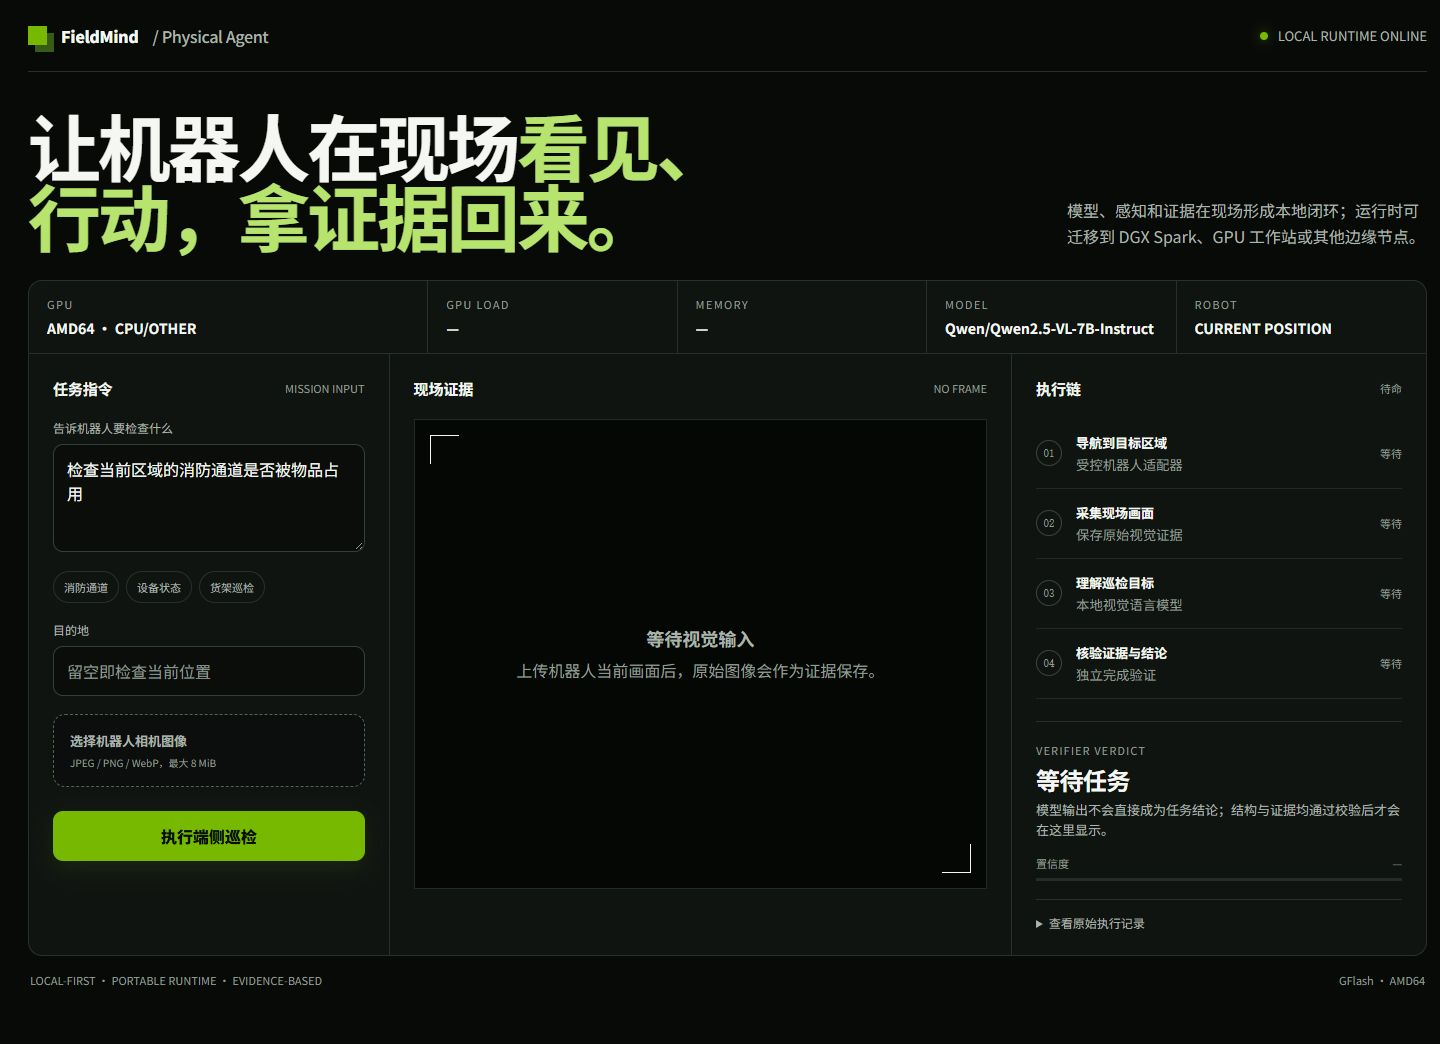
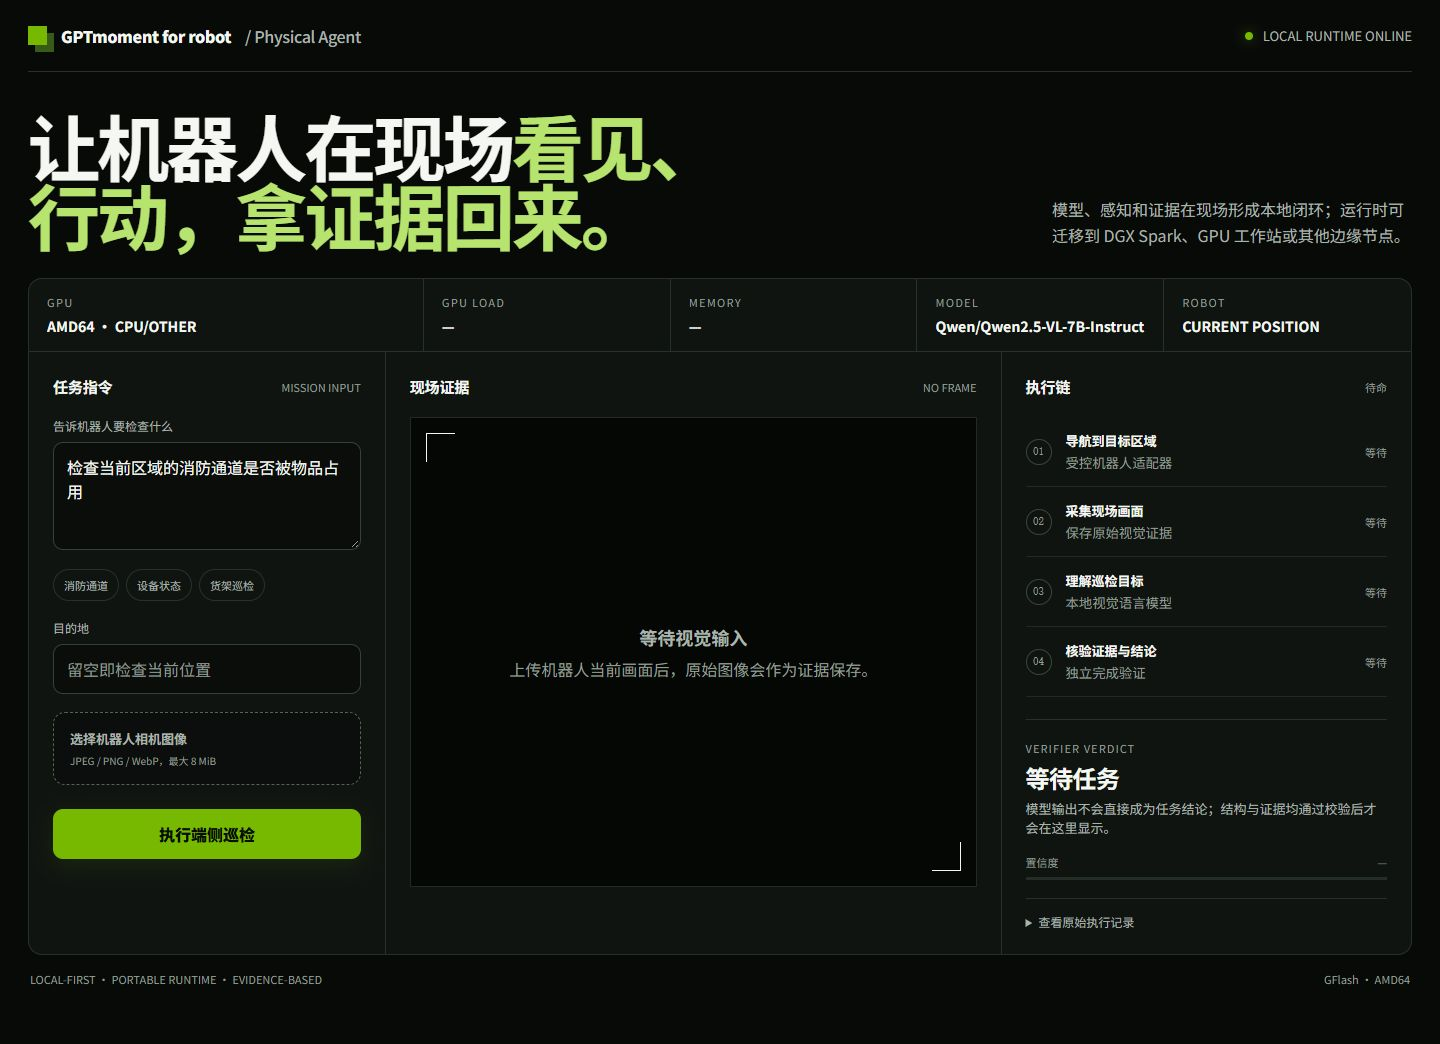
更正一些错误

diff --git a/ui/src/App.tsx b/ui/src/App.tsx
@@ -31,5 +31,5 @@ function Models({initialId}:{initialId?:string}){
 export default function App(){
  const [view,setView]=useState('overview');const [selection,setSelection]=useState<TaskSelection>();const [taskId,setTaskId]=useState<string>();const [assetId,setAssetId]=useState<string>();const [modelId,setModelId]=useState<string>();const [compact,setCompact]=useState(false);const overview=useQuery<Json>('/overview');
  const onTask=(id:string)=>{setTaskId(id);setView('tasks')};const onAsset=(id:string)=>{setAssetId(id);setView('memory')};const onModel=(id:string)=>{setModelId(id);setView('models')};
- return <div className={`app-shell ${compact?'nav-compact':''}`}><aside className="sidebar"><a className="brand" href="#" onClick={e=>{e.preventDefault();setView('overview')}} aria-label="返回运行总览"><span className="brand-icon"><ScanEye size={24}/></span><span>robot<span className="brand-light"> / agent</span><small>FLOW OBSERVER</small></span></a><div className="workspace-chip"><span className="workspace-avatar">R</span><div><strong>机器人 Agent 框架</strong><small>本地运行账本</small></div><LockKeyhole size={13}/></div><span className="nav-label">工作空间</span><nav>{navigation.map(n=><button key={n.id} className={view===n.id?'active':''} onClick={()=>setView(n.id)} title={n.label}><n.icon size={19}/><span>{n.label}</span>{view===n.id&&<i/>}</button>)}</nav><div className="sidebar-footer"><div><span className={`connection-dot ${overview.data&&!overview.error?'online':''}`}/><span>{overview.error?'查询服务不可用':overview.loading?'连接观察服务中':'账本查询已连接'}</span></div><p>{view==='workbench'?'操作请求经应用服务提交':'只读观察 · 不接管执行'}</p><button onClick={()=>setCompact(v=>!v)} aria-label="折叠侧栏"><PanelLeftClose size={16}/><span>收起侧栏</span></button></div></aside><div className="main-shell"><header className="topbar"><div className="breadcrumb">工作空间 <span>/</span> <strong>{navigation.find(n=>n.id===view)?.label}</strong></div><div className="topbar-meta"><span className="read-only"><LockKeyhole size={12}/>{view==='workbench'?'应用操作 · 独立凭据':'账本只读'}</span><span className={`connection-label ${overview.error?'disconnected':''}`}><i/>{overview.error?'数据可能过期':overview.data?'API 已连接':'API 连接中'}</span><span className="avatar"><Server size={17}/></span></div></header><main><Notice error={overview.error}/><div className="observation-time"><span><Radio size={12}/>实际账本 · {overview.error?'上次成功观测':'观测时间'}</span><time>{overview.observed?stamp(overview.observed):'尚未成功读取'}</time></div><div hidden={view!=='workbench'}><Workbench selection={selection}/></div>{view==='overview'&&<Overview data={overview.data} onTask={onTask} onView={setView}/>} {view==='tasks'&&<TaskView initialId={taskId} onAsset={onAsset} onModel={onModel} onDiscuss={value=>{setSelection(value);setView('workbench')}}/>} {view==='resources'&&<Resources onTask={onTask}/>} {view==='memory'&&<MemoryView key={assetId||'memory'} assetId={assetId}/>} {view==='models'&&<Models key={modelId||'models'} initialId={modelId}/>}</main><footer className="main-footer"><span><GitBranch size={13}/>Robot Agent Framework</span><span>真实记录 · 可追溯执行 · 明确未知</span><span>Observer API v1</span></footer></div></div>
+ return <div className={`app-shell ${compact?'nav-compact':''}`}><aside className="sidebar"><a className="brand" href="#" onClick={e=>{e.preventDefault();setView('overview')}} aria-label="返回运行总览"><span className="brand-icon"><ScanEye size={24}/></span><span>GPTmoment<span className="brand-light" style={{display:"block",fontSize:12,letterSpacing:0}}>for robot</span><small>FLOW OBSERVER</small></span></a><div className="workspace-chip"><span className="workspace-avatar">R</span><div><strong>GPTmoment for robot</strong><small>本地运行账本</small></div><LockKeyhole size={13}/></div><span className="nav-label">工作空间</span><nav>{navigation.map(n=><button key={n.id} className={view===n.id?'active':''} onClick={()=>setView(n.id)} title={n.label}><n.icon size={19}/><span>{n.label}</span>{view===n.id&&<i/>}</button>)}</nav><div className="sidebar-footer"><div><span className={`connection-dot ${overview.data&&!overview.error?'online':''}`}/><span>{overview.error?'查询服务不可用':overview.loading?'连接观察服务中':'账本查询已连接'}</span></div><p>{view==='workbench'?'操作请求经应用服务提交':'只读观察 · 不接管执行'}</p><button onClick={()=>setCompact(v=>!v)} aria-label="折叠侧栏"><PanelLeftClose size={16}/><span>收起侧栏</span></button></div></aside><div className="main-shell"><header className="topbar"><div className="breadcrumb">工作空间 <span>/</span> <strong>{navigation.find(n=>n.id===view)?.label}</strong></div><div className="topbar-meta"><span className="read-only"><LockKeyhole size={12}/>{view==='workbench'?'应用操作 · 独立凭据':'账本只读'}</span><span className={`connection-label ${overview.error?'disconnected':''}`}><i/>{overview.error?'数据可能过期':overview.data?'API 已连接':'API 连接中'}</span><span className="avatar"><Server size={17}/></span></div></header><main><Notice error={overview.error}/><div className="observation-time"><span><Radio size={12}/>实际账本 · {overview.error?'上次成功观测':'观测时间'}</span><time>{overview.observed?stamp(overview.observed):'尚未成功读取'}</time></div><div hidden={view!=='workbench'}><Workbench selection={selection}/></div>{view==='overview'&&<Overview data={overview.data} onTask={onTask} onView={setView}/>} {view==='tasks'&&<TaskView initialId={taskId} onAsset={onAsset} onModel={onModel} onDiscuss={value=>{setSelection(value);setView('workbench')}}/>} {view==='resources'&&<Resources onTask={onTask}/>} {view==='memory'&&<MemoryView key={assetId||'memory'} assetId={assetId}/>} {view==='models'&&<Models key={modelId||'models'} initialId={modelId}/>}</main><footer className="main-footer"><span><GitBranch size={13}/>GPTmoment for robot</span><span>真实记录 · 可追溯执行 · 明确未知</span><span>Observer API v1</span></footer></div></div>
 }

diff --git a/ui/index.html b/ui/index.html
@@ -1,1 +1,1 @@
-<!doctype html><html lang="zh-CN"><head><meta charset="UTF-8"/><meta name="viewport" content="width=device-width, initial-scale=1.0"/><meta name="theme-color" content="#111820"/><title>Robot Agent · 流程观察台</title></head><body><div id="root"></div><script type="module" src="/src/main.tsx"></script></body></html>
+<!doctype html><html lang="zh-CN"><head><meta charset="UTF-8"/><meta name="viewport" content="width=device-width, initial-scale=1.0"/><meta name="theme-color" content="#111820"/><title>GPTmoment for robot · 流程观察台</title></head><body><div id="root"></div><script type="module" src="/src/main.tsx"></script></body></html>

diff --git a/.history/hackathon_mvp_20260929224837.py b/.history/hackathon_mvp_20260929224837.py
@@ -81,7 +81,7 @@ class InspectionAgent:
             "MODEL_ENDPOINT", "http://127.0.0.1:8000/v1/chat/completions"
         )
         self.model_name = os.getenv(
-            "MODEL_NAME", "Qwen/Qwen3.8-27B"
+            "MODEL_NAME", "Qwen/Qwen2.5-VL-7B-Instruct"
         )
         self.model_api_key = os.getenv("MODEL_API_KEY", "")
         self.robot_skill_url = os.getenv("ROBOT_SKILL_URL", "")

diff --git a/fieldmind.py b/fieldmind.py
@@ -1,6 +1,6 @@
-"""FieldMind portable physical-agent entry point."""
+"""Compatibility entry point for GPTmoment for robot."""
 
-from hackathon_mvp import main
+from gptmoment import main
 
 
 if __name__ == "__main__":

diff --git a/gptmoment.py b/gptmoment.py
@@ -1,0 +1,7 @@
+"""GPTmoment for robot portable physical-agent entry point."""
+
+from hackathon_mvp import main
+
+
+if __name__ == "__main__":
+    main()

diff --git a/.impeccable/surfaces/hackathon-mvp-py.md b/.impeccable/surfaces/hackathon-mvp-py.md
@@ -2,10 +2,10 @@
 version: 1
 slug: "hackathon-mvp-py"
 primary_target: "hackathon_mvp.py"
-related_targets: ["fieldmind.py", "HACKATHON.md", "README.md", ".impeccable/review/desktop.png", ".impeccable/review/mobile.png"]
+related_targets: ["gptmoment.py", "HACKATHON.md", "README.md", ".impeccable/review/desktop.png", ".impeccable/review/mobile.png"]
 ---
 
-# FieldMind hackathon inspection runtime
+# GPTmoment for robot hackathon inspection runtime
 
 Mode: Operate. Audience: hackathon judges, local robotics developers, and on-site operators. Present one real inspection loop clearly enough to demo in three minutes without collapsing weaker model evidence into a stronger robot-completion claim.
 
@@ -17,7 +17,7 @@ OWN-WORLD: The Edge Evidence Bay — a near-black, green-cast instrument chassis
 
 STORY: Confirm the edge host and runtime → state a natural-language inspection goal → optionally name a destination → upload the robot's current frame → execute the local loop → inspect each skill result → read the verifier verdict and raw record.
 
-FIRST VIEWPORT: Keep the FieldMind identity, local/remote runtime status, portable deployment promise, five telemetry cells, and the top of the mission/evidence/execution workbench visible on desktop. The center evidence track is widest. On mobile, show the promise and telemetry first, then preserve mission → evidence → execution order.
+FIRST VIEWPORT: Keep the GPTmoment for robot identity, local/remote runtime status, portable deployment promise, five telemetry cells, and the top of the mission/evidence/execution workbench visible on desktop. The center evidence track is widest. On mobile, show the promise and telemetry first, then preserve mission → evidence → execution order.
 
 FORM: One explicit mission submission. Image evidence is mandatory; destination is optional and means “inspect current position” when empty. Presets only fill the mission text. Running is never implicit, never retried automatically, and never represented as complete before the verifier returns.
 
@@ -29,7 +29,7 @@ FINISH: The desktop and mobile captures are the visual truth for this shipped su
 
 ## Implemented surface
 
-The surface is a self-contained local web runtime embedded in `hackathon_mvp.py`. Its top bar pairs the offset-square FieldMind mark with a text-labeled runtime indicator. The opening promise uses a large Chinese display line with green emphasis and a compact deployment paragraph that names DGX Spark, GPU workstations, and other edge nodes as portable targets.
+The surface is a self-contained local web runtime embedded in `hackathon_mvp.py`. Its top bar pairs the offset-square GPTmoment for robot mark with a text-labeled runtime indicator. The opening promise uses a large Chinese display line with green emphasis and a compact deployment paragraph that names DGX Spark, GPU workstations, and other edge nodes as portable targets.
 
 Five telemetry cells report accelerator identity, GPU load, memory, model, and robot state. They join directly to the three-column workbench: mission input on the left, raw on-site evidence in the dominant center, and the four-step execution chain plus verifier outcome on the right. The workbench is one bordered chassis rather than a set of floating cards.
 
@@ -37,7 +37,7 @@ The mission form contains a natural-language goal, three quick-fill inspection t
 
 Execution rows keep `robot.navigate`, `vision.observe`, `inspection.assess`, and `task.verify` legible as separate claims. Their waiting, submitted, completed, failed, and skipped states stay independently labeled. The verifier does not simply repeat the model response: only a successful verification output can populate the final verdict and confidence track. The complete response remains inspectable in a native disclosure.
 
-At widths below 1050px the result column spans a second row and the execution trace turns horizontal. Below 720px the shell becomes a single vertical flow, telemetry becomes a two-column grid, a four-part proof strip appears, the evidence viewport contracts to 330px, and the brand descriptor is hidden while FieldMind and runtime status remain visible.
+At widths below 1050px the result column spans a second row and the execution trace turns horizontal. Below 720px the shell becomes a single vertical flow, telemetry becomes a two-column grid, a four-part proof strip appears, the evidence viewport contracts to 330px, and the brand descriptor is hidden while GPTmoment for robot and runtime status remain visible.
 
 ## Completion evidence
 

diff --git a/DESIGN.md b/DESIGN.md
@@ -1,5 +1,5 @@
 ---
-name: "FieldMind"
+name: "GPTmoment for robot"
 description: "A local-first, portable, evidence-driven Physical Agent Runtime for robots."
 colors:
   phosphor-green: "#76b900"
@@ -88,13 +88,13 @@ components:
     padding: "24px"
 ---
 
-# Design System: FieldMind
+# Design System: GPTmoment for robot
 
 ## Overview
 
 **Creative North Star: "The Edge Evidence Bay"**
 
-FieldMind should feel like a disciplined workstation installed beside the robot, not a cloud dashboard wearing industrial colors. Its near-black canvas, instrument-like telemetry, and sharp evidence viewport create a calm operating bay where the user can issue one mission, inspect what the robot actually saw, and follow the chain from skill invocation to independent verification.
+GPTmoment for robot should feel like a disciplined workstation installed beside the robot, not a cloud dashboard wearing industrial colors. Its near-black canvas, instrument-like telemetry, and sharp evidence viewport create a calm operating bay where the user can issue one mission, inspect what the robot actually saw, and follow the chain from skill invocation to independent verification.
 
 The visual system communicates three durable product truths: computation can stay local, the runtime can move between edge hosts, and claims only become conclusions when evidence survives verification. DGX Spark belongs in deployment copy as a high-performance reference node; it is never treated as a required device or the identity of the product. Density is purposeful rather than decorative: large type states the promise, compact labels expose machine state, and green appears only where it carries action, availability, progress, or verified success.
 
@@ -135,7 +135,7 @@ The palette is an edge-compute night mode: green-black surfaces reduce glare, co
 
 **The Honest State Rule.** Failure uses coral, constrained or skipped states use amber, and unknown or waiting states remain neutral. Never turn every state green.
 
-**The Portable Runtime Rule.** Host and accelerator identity may be visible telemetry, but no vendor color or device name may overtake FieldMind's product identity.
+**The Portable Runtime Rule.** Host and accelerator identity may be visible telemetry, but no vendor color or device name may overtake GPTmoment for robot's product identity.
 
 ## Typography
 
@@ -174,13 +174,13 @@ Spacing follows compact operational increments from 7px to 28px. Internal workbe
 
 ## Elevation & Depth
 
-FieldMind is flat by default. Depth comes from nested green-black tones, 1px borders, and contained clipping rather than a stack of floating cards. The primary action is the lone raised control, while live status uses a small optical glow. Evidence overlays use a nearly opaque dark backing so machine metadata remains legible over imagery.
+GPTmoment for robot is flat by default. Depth comes from nested green-black tones, 1px borders, and contained clipping rather than a stack of floating cards. The primary action is the lone raised control, while live status uses a small optical glow. Evidence overlays use a nearly opaque dark backing so machine metadata remains legible over imagery.
 
 ### Shadow Vocabulary
 
 - **Action Lift** (`0 7px 22px rgba(47, 76, 11, 0.32)`): only the enabled primary execution button.
 - **Runtime Glow** (`0 0 12px rgba(118, 185, 0, 0.55)`): the live runtime dot; never apply this glow to decorative text or entire panels.
-- **Brand Offset** (`7px 7px 0 #395b18`): the square FieldMind mark's physical offset; it is a signature silhouette, not a general card shadow.
+- **Brand Offset** (`7px 7px 0 #395b18`): the square GPTmoment for robot mark's physical offset; it is a signature silhouette, not a general card shadow.
 
 ### Named Rules
 
@@ -224,7 +224,7 @@ Thin borders are structural, not ornamental. Dashed borders are reserved for fil
 
 ### Navigation
 
-The product bar is a minimal identity-and-status rail rather than global navigation: FieldMind and its Physical Agent descriptor sit left, and runtime state sits right. On mobile, hide the descriptor but retain both the brand and runtime state. The live dot never appears without adjacent text.
+The product bar is a minimal identity-and-status rail rather than global navigation: GPTmoment for robot and its Physical Agent descriptor sit left, and runtime state sits right. On mobile, hide the descriptor but retain both the brand and runtime state. The live dot never appears without adjacent text.
 
 ### Evidence Viewport
 

diff --git a/docs/PROMO_SCRIPT.md b/docs/PROMO_SCRIPT.md
@@ -1,0 +1,28 @@
+# GPTmoment for robot · 产品宣传片脚本
+
+目标时长约 2 分钟。主线：提出机器人能力组合的问题 → 介绍 Agent 与 Skill → 穿插现场视频 → 展示任务反馈 → 展开跨场景与本地部署。
+
+核心表达：**把机器人的每一种能力，编排成完成任务的行动。**
+
+## 分镜与旁白
+
+| 时间 | 画面 | 旁白 | 屏幕字幕 |
+| --- | --- | --- | --- |
+| 00:00–00:08 | 快切移动、观察、操作或交互镜头 | 机器人能够移动、看见、操作，也能够与人交流。 | 移动 · 感知 · 操作 · 交互 |
+| 00:08–00:18 | 自然语言任务出现，展开动作词 | 而真实的需求，往往需要这些能力一起完成。比如，把一件物品送到指定位置，并确认交接。 | 一个目标，需要多种能力协作。 |
+| 00:18–00:30 | 项目名称与技能模块出现 | 这就是 GPTmoment for robot 的出发点：把机器人的能力统一封装为 Skill，让 Agent 围绕目标组织行动。 | GPTmoment for robot / 机器人通用技能编排 |
+| 00:30–00:43 | 任务输入与计划节点；概念动画标注“任务编排示意” | 从一句任务描述开始，结合可用技能与现场信息，将目标组织成有依赖、有完成条件的执行流程。 | 理解目标 → 匹配技能 → 组织任务 |
+| 00:43–01:00 | 主要机器人实拍，侧边标注对应技能 | 每一项技能连接具体的机器人能力。导航负责到达，感知提供环境信息，操作改变物体状态，交互帮助人与机器人协同。 | 当前任务 / 调用技能 / 执行状态 |
+| 01:00–01:15 | 实拍与执行记录交叉剪辑 | 行动会带来新的反馈：位置是否到达，目标是否找到，动作是否完成。这些信息为下一步决策提供依据。 | 执行产生反馈，反馈推动下一步。 |
+| 01:15–01:28 | 观测画面、已有结果和记录 | 任务结果应当有清晰的完成标准，并能追溯到执行记录与现场证据。 | 目标有定义 · 过程可追踪 · 结果有依据 |
+| 01:28–01:43 | 技能模块重新组合，标注“场景组合” | 同一组技能可以组成不同任务。导航、识别与操作服务于物品递送；对话与引导服务于访客接待；感知与工具使用服务于工位协作。 | 能力复用，任务重组。 |
+| 01:43–01:54 | 现场计算设备或架构图分层展示 | GPTmoment for robot 采用本地优先、可迁移的架构。模型与任务运行时可以部署在 DGX Spark 或其他现场节点，让智能贴近任务发生的地方。 | 本地部署 · 现场协同 · 跨平台迁移 |
+| 01:54–02:03 | 最有表现力的实拍，淡入名称与仓库地址 | 让每一种机器人能力，进入更丰富的任务。GPTmoment for robot，把能力编排成行动。 | GPTmoment for robot / 把机器人的每一种能力，编排成完成任务的行动。 |
+
+## 剪辑与命名规范
+
+- 项目名称统一使用 `GPTmoment for robot`，保留这一大小写和空格；口播与封面采用同一名称。
+- 片尾地址：`github.com/GFlash6/robot_GPTmoment`。
+- 实拍旁注采用“当前任务 / 调用技能 / 执行反馈”三层结构，内容与对应镜头、记录一致。
+- 场景组合使用流程示意动画；实拍保留完整动作过程，结果字幕对应可见证据。
+- 架构素材：[PNG](diagrams/gptmoment-overview.png) / [SVG](diagrams/gptmoment-overview.svg)。

diff --git a/PRODUCT.md b/PRODUCT.md
@@ -1,4 +1,4 @@
-# Product
+# GPTmoment for robot
 
 <!-- impeccable:product-schema 1 -->
 
@@ -12,7 +12,7 @@ web
 
 ## Product Purpose
 
-机器人 Agent 框架把任务规划、技能执行、资源控制、恢复和多模态证据组织成可追溯流程。运行台让操作者区分请求成功、模型回答正确、计划契约通过、技能执行成功与机器人目标完成等不同证据层级。
+GPTmoment for robot 把任务规划、技能执行、资源控制、恢复和多模态证据组织成可追溯流程。导航、感知、操作与交互等能力通过 Skill 契约组合为跨场景任务。运行台让操作者区分请求成功、模型回答正确、计划契约通过、技能执行成功与机器人目标完成等不同证据层级。
 
 ## Positioning
 

diff --git a/.history/HACKATHON_20260929224720.md b/.history/HACKATHON_20260929224720.md
@@ -44,7 +44,7 @@ InspectionAgent ───► 本地 VLM :8000
 ```bash
 chmod +x start_gptmoment.sh
 MODEL_ENDPOINT=http://127.0.0.1:8000/v1/chat/completions \
-MODEL_NAME=Qwen/Qwen3.8-27B \
+MODEL_NAME=Qwen/Qwen2.5-VL-7B-Instruct \
 ./start_gptmoment.sh
 ```
 
